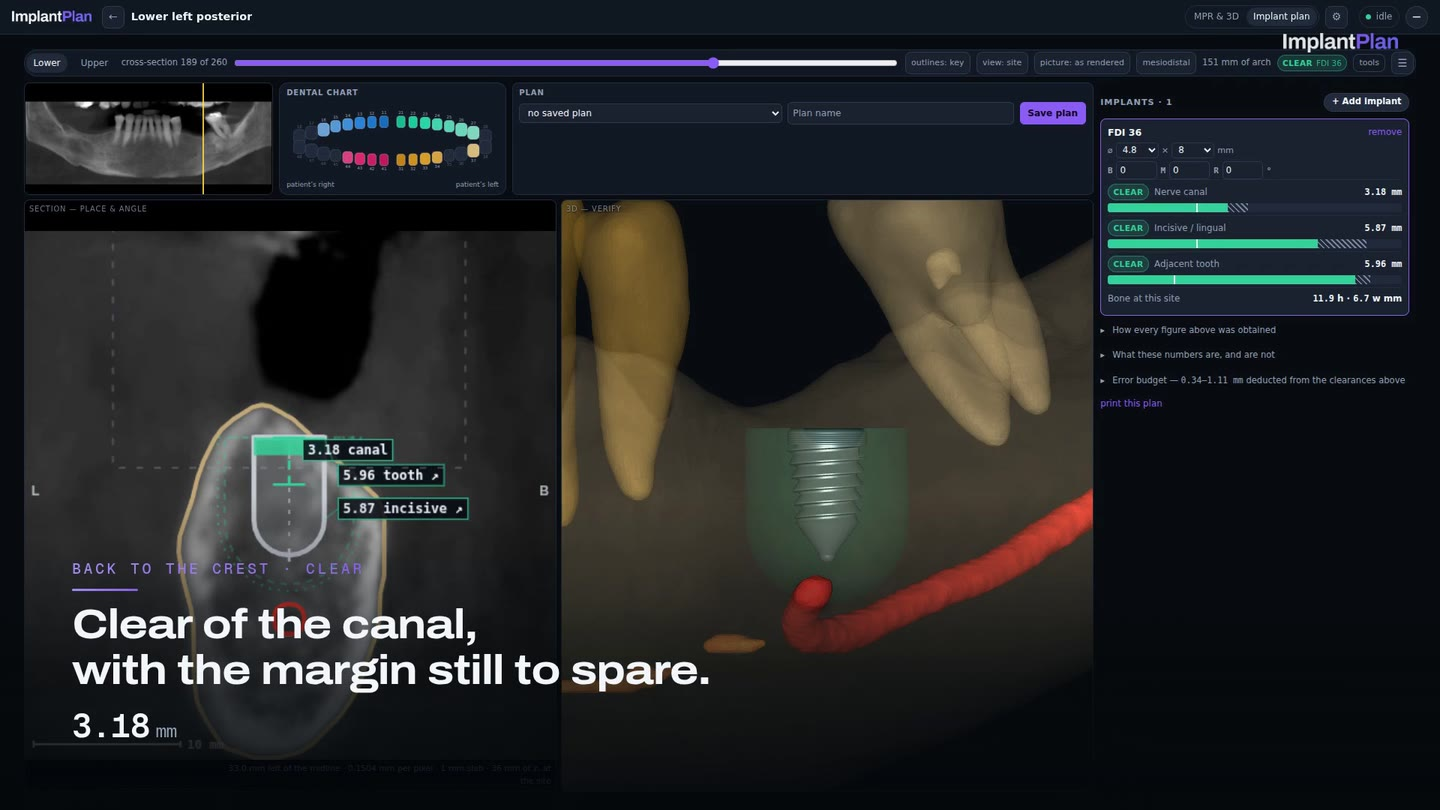
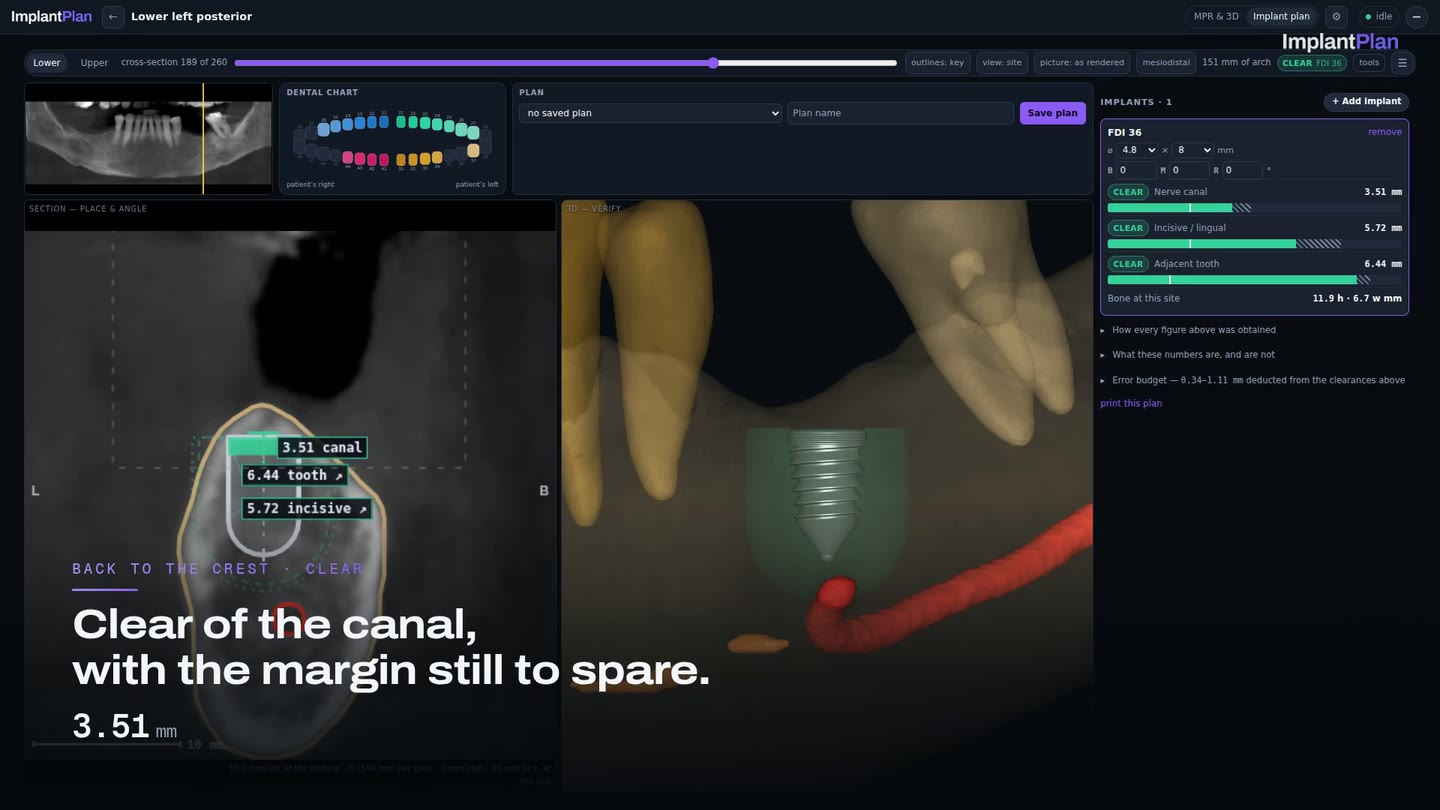
Seat the implant between the cortical plates, not on the arch curve
The reshot trailer put a fixture on the buccal flank of the ridge with its wall
against the outer cortex. That is not a filming mistake, it is what the app does:
`alignToSite` set `t_mm = 0` with the comment "the crest midline, which is where
ridge.py measures", and that was true of the measurement and false of the anatomy.
`_crest_z` sampled ONLY the `t = 0` column, so the arch curve was the midline by
assumption rather than by finding bone.

The curve is fitted to crowns and interpolated across gaps, which means it is least
trustworthy at exactly the sites an implant goes. Two failures followed from it, both
measured on real cases:

* `_canal_roof_z` right below it already sweeps `t`, with a comment recording that a
  single ray at `t = 0` once refused every molar on a case. The crest search never
  learned the same lesson, and on a case whose ridge sat 1.5-2.0 mm off the curve
  BOTH edentulous sites reported "no cortical crest was found" -- the only two sites
  a planner would have used were the only two that could not be measured.
* Where `t = 0` did hit, it hit whatever it was standing on, and the implant was
  seated there.

So: the crest search tries `t = 0` first and falls back to a +/-3 mm sweep, which
means no site that had a measurement changes and sites that had none get one. The
SEAT is a separate question with a separate answer -- the midpoint of the buccal and
lingual cortical plates, which the width measurement already located and threw away.
[…]

diff --git a/web/app.js b/web/app.js
@@ -5771,7 +5771,14 @@ function alignToSite(info, imp) {
   // No crest: fall back to the occlusal plane, and say so rather than pretending.
   imp.z_mm = crest != null ? crest + down * SUBCRESTAL_MM
     : info.occlusal_z_mm + down * 1.0;
-  imp.t_mm = 0;                 // the crest midline, which is where `ridge.py` measures
+  // ON THE RIDGE, not on the arch curve. This was `0` with the comment "the crest
+  // midline, which is where ridge.py measures" -- and that was true of the measurement
+  // and false of the anatomy: `_crest_z` sampled only the `t = 0` column, so the curve
+  // WAS the midline by assumption rather than by finding the bone. On a sloped or
+  // atrophic ridge the curve falls on the flank, and a fixture seated there has its
+  // buccal wall against the outer cortex. `ridge.py` now sweeps for the top of the
+  // ridge and publishes where it found it; seat on that.
+  imp.t_mm = site && site.crest_t_mm != null ? site.crest_t_mm : 0;
   imp.tilt_deg = 0;
   // ALL THREE angles, not just the one. `C` is "re-seat on the ridge", and a re-seat
   // that left a 20-degree mesiodistal angulation in place would put the platform on

diff --git a/dentistry/ridge.py b/dentistry/ridge.py
@@ -66,6 +66,29 @@ WIDTH_SEARCH_MM = 10.0
 CANAL_OFFSET_SEARCH_MM = 3.0
 CANAL_OFFSET_STEP_MM = 0.5
 
+# How far either side of the arch curve to look for the crest when the curve itself
+# misses the bone.
+#
+# The same lesson as the block above, learned twice. `_canal_roof_z` sweeps `t` because a
+# single ray at `t = 0` refused every molar on a real case; `_crest_z` did not, and took
+# the first cortical crossing on the `t = 0` column as "the crest" whatever it was
+# standing on. Where the arch curve is INTERPOLATED -- which is every edentulous site,
+# because there is no tooth to anchor the arc position -- that column can miss the ridge
+# altogether. Measured: on a real case both gap sites reported "no cortical crest was
+# found" while the ridge sat a couple of millimetres to one side, so the only two sites a
+# planner would actually have used were the only two that could not be measured.
+#
+# `t = 0` is still tried first and still wins when it finds bone, so no site that had a
+# measurement changes. The sweep only fills in sites that previously had none.
+#
+# WHERE TO SEAT is deliberately NOT this offset. Taking the most coronal crossing across
+# the sweep was tried and is worse: on a sloped ridge the highest point is the knife edge,
+# and it moved FDI 36 on a real case from 6.69 mm of crestal width to 2.5 mm, a crest no
+# fixture in the catalogue fits on. The seat is the midpoint between the two cortical
+# plates, computed with the width further down.
+CREST_OFFSET_SEARCH_MM = 3.0
+CREST_OFFSET_STEP_MM = 0.25
+
 
 def _ratio_profile(sampler, s_mm, t_mm, z_from, z_to, refs):
     """`(zs, ratios)` sampled vertically, or `(None, None)` with no usable reference."""
@@ -117,18 +140,39 @@ def _crest_z(sampler, s_mm, refs, jaw, z_top, z_bottom):
     up = jaw == "maxilla"
     z_from = z_bottom if up else z_top
     z_to = (z_bottom + CREST_SEARCH_MM) if up else (z_top - CREST_SEARCH_MM)
-    zs, ratios = _ratio_profile(sampler, s_mm, 0.0, z_from, z_to, refs)
-    if zs is None:
-        return None, "this scan has no usable cancellous reference population"
-    for i, r in enumerate(ratios):
-        if r >= CORTICAL_RATIO:
-            return zs[i], None
-    return None, (f"no cortical crest was found within {CREST_SEARCH_MM:.0f} mm of the "
-                  f"{'bottom' if up else 'top'} of the measured band, where a "
-                  f"{jaw} crest would be")
+
+    # `t = 0` FIRST, and if it finds a crest that is the answer -- every site that could
+    # be measured before is measured identically now. The sweep below only ever fills in
+    # a site that previously reported nothing at all.
+    #
+    # NOT the most coronal crossing across the sweep, which was tried and was worse: on a
+    # sloped ridge the highest point is the knife edge, and taking it moved FDI 36 on a
+    # real case from 6.69 mm of crestal width to 2.5 mm -- a crest no fixture in the
+    # catalogue fits on. The nearest column that finds bone keeps the reference where the
+    # arch put it; WHERE TO SEAT is a separate question, answered from the cortical plates
+    # in `measure_sites` rather than from the height of the crossing.
+    steps = int(round(CREST_OFFSET_SEARCH_MM / CREST_OFFSET_STEP_MM))
+    offsets = [0.0] + [sign * k * CREST_OFFSET_STEP_MM
+                       for k in range(1, steps + 1) for sign in (1.0, -1.0)]
+    no_refs = False
+    for t in offsets:
+        zs, ratios = _ratio_profile(sampler, s_mm, t, z_from, z_to, refs)
+        if zs is None:
+            no_refs = True
+            continue
+        for i, r in enumerate(ratios):
+            if r >= CORTICAL_RATIO:
+                return zs[i], t, None
+    if no_refs:
+        return None, None, "this scan has no usable cancellous reference population"
+    return None, None, (
+        f"no cortical crest was found within {CREST_SEARCH_MM:.0f} mm of the "
+        f"{'bottom' if up else 'top'} of the measured band, at the arch curve or "
+        f"anywhere within {CREST_OFFSET_SEARCH_MM:.0f} mm either side of it, where a "
+        f"{jaw} crest would be")
 
 
-def _canal_roof_z(sampler, s_mm, crest_z):
+def _canal_roof_z(sampler, s_mm, crest_z, seat_t=0.0):
     """`(z, t)` of the shallowest drawn canal below this site, or `(None, None)`.
 
     A distance field, sampled down a vertical column and asked where it reaches zero.
@@ -146,8 +190,13 @@ def _canal_roof_z(sampler, s_mm, crest_z):
     zs = [crest_z - i * (45.0 / (n - 1)) for i in range(n)]
     steps = int(round(CANAL_OFFSET_SEARCH_MM / CANAL_OFFSET_STEP_MM))
     # `t = 0` first, so a canal genuinely under the midline reports no offset at all.
-    offsets = [0.0] + [sign * k * CANAL_OFFSET_STEP_MM
-                       for k in range(1, steps + 1) for sign in (1.0, -1.0)]
+    # CENTRED ON THE SEAT. The window is the footprint of the implant, and the implant
+    # sits at `seat_t` -- the midpoint of the cortical plates -- not on the arch curve.
+    # Sweeping from the curve asks "is the canal under the curve", which is not a
+    # question anyone has: measured on a real case, both edentulous sites reported no
+    # canal beneath them while their ridges sat 1.5-2.0 mm to one side of the curve.
+    offsets = [seat_t] + [seat_t + sign * k * CANAL_OFFSET_STEP_MM
+                          for k in range(1, steps + 1) for sign in (1.0, -1.0)]
     best_z, best_t = None, None
     for t in offsets:
         ds = sampler.sample("canal", [(s_mm, t, z) for z in zs])
@@ -155,6 +204,30 @@ def _canal_roof_z(sampler, s_mm, crest_z):
         if hit is not None and (best_z is None or hit > best_z):
             best_z, best_t = hit, t
     return best_z, best_t
+
+
+def _plate_edges(sampler, s_mm, crest, jaw, refs):
+    """Distance from the arch curve out to each cortical plate, `{buccal, lingual}`.
+
+    Hoisted out of `measure_sites` so the SEAT it implies -- the midpoint of the two
+    plates -- exists before the height is measured, because the height's canal sweep is
+    centred on the seat rather than on the curve.
+    """
+    z_w = crest - WIDTH_BELOW_CREST_MM if jaw != "maxilla" \
+        else crest + WIDTH_BELOW_CREST_MM
+    edges = {}
+    for side, sign in (("buccal", 1.0), ("lingual", -1.0)):
+        n = max(2, int(round(WIDTH_SEARCH_MM / PROFILE_STEP_MM)) + 1)
+        ts = [sign * i * (WIDTH_SEARCH_MM / (n - 1)) for i in range(n)]
+        vals = sampler.sample("grey", [(s_mm, t, z_w) for t in ts])
+        air, ref = refs.get("air"), refs.get("cancellous")
+        if air is None or ref is None or abs(ref - air) < 1e-6:
+            break
+        ratios = [(v - air) / (ref - air) for v in vals]
+        peak = next((i for i, r in enumerate(ratios) if r >= CORTICAL_RATIO), None)
+        edges[side] = (None if peak is None
+                       else _falling_half_max([abs(t) for t in ts], ratios, peak))
+    return edges
 
 
 def measure_sites(sampler, fit_info: dict, jaw: str, refs: dict,
@@ -187,6 +260,7 @@ def measure_sites(sampler, fit_info: dict, jaw: str, refs: dict,
         # carries a height still displayed "no cortical crest was found", because the
         # earlier refusal's `reason` was never cleared. A complete record cannot do that.
         entry = {"height_mm": None, "width_mm": None, "crest_z_mm": None,
+                 "crest_t_mm": None,
                  "reason": None, "height_reason": None, "width_reason": None,
                  "basis_height": None, "basis_width": None,
                  "position_interpolated": bool(site.get("interpolated"))}
@@ -200,12 +274,21 @@ def measure_sites(sampler, fit_info: dict, jaw: str, refs: dict,
             out[str(fdi)] = entry
             continue
 
-        crest, why = _crest_z(sampler, s_mm, refs, jaw, z_top, z_bottom)
+        crest, crest_t, why = _crest_z(sampler, s_mm, refs, jaw, z_top, z_bottom)
         if crest is None:
             entry["reason"] = why
             out[str(fdi)] = entry
             continue
         entry["crest_z_mm"] = round(crest, 2)
+        # WHERE TO SEAT, decided before anything is measured under it. The cortical plates
+        # give the middle of the ridge; `crest_t` -- the column the crest was found on --
+        # is only the fallback for a curve that missed the bone entirely.
+        edges = _plate_edges(sampler, s_mm, crest, jaw, refs)
+        if edges.get("buccal") is not None and edges.get("lingual") is not None:
+            seat_t = (edges["buccal"] - edges["lingual"]) / 2.0
+        else:
+            seat_t = crest_t
+        entry["crest_t_mm"] = round(seat_t, 2)
 
         # ---- height ---------------------------------------------------------
         if jaw == "mandible":
@@ -225,7 +308,7 @@ def measure_sites(sampler, fit_info: dict, jaw: str, refs: dict,
                            f"{pres['nearest_present_mm']:.0f} mm away along the arch"
                            if pres.get("nearest_present_mm") is not None else ""))
                 else:
-                    roof, t_at = _canal_roof_z(sampler, s_mm, crest)
+                    roof, t_at = _canal_roof_z(sampler, s_mm, crest, seat_t)
                     if roof is None:
                         entry["height_reason"] = (
                             "no drawn canal within 45 mm below the crest at this site, "
@@ -264,20 +347,6 @@ def measure_sites(sampler, fit_info: dict, jaw: str, refs: dict,
                     "ratio units, never from the FOV-limited sinus label")
 
         # ---- width ----------------------------------------------------------
-        z_w = crest - WIDTH_BELOW_CREST_MM if jaw != "maxilla" \
-            else crest + WIDTH_BELOW_CREST_MM
-        edges = {}
-        for side, sign in (("buccal", 1.0), ("lingual", -1.0)):
-            n = max(2, int(round(WIDTH_SEARCH_MM / PROFILE_STEP_MM)) + 1)
-            ts = [sign * i * (WIDTH_SEARCH_MM / (n - 1)) for i in range(n)]
-            vals = sampler.sample("grey", [(s_mm, t, z_w) for t in ts])
-            air, ref = refs.get("air"), refs.get("cancellous")
-            if air is None or ref is None or abs(ref - air) < 1e-6:
-                break
-            ratios = [(v - air) / (ref - air) for v in vals]
-            peak = next((i for i, r in enumerate(ratios) if r >= CORTICAL_RATIO), None)
-            edges[side] = (None if peak is None
-                           else _falling_half_max([abs(t) for t in ts], ratios, peak))
         if edges.get("buccal") is not None and edges.get("lingual") is not None:
             entry["width_mm"] = round(edges["buccal"] + edges["lingual"], 2)
             entry["basis_width"] = (

diff --git a/README.md b/README.md
@@ -6,16 +6,16 @@
 
 [**dentistry.dicomsegvr.com**](https://dentistry.dicomsegvr.com) · research preview · **not a medical device, and not for diagnostic use**
 
-<img src="marketing/preview/verdict-sequence.gif" alt="One implant site at three seating depths: TIGHT at 2.71 mm, BREACH at 2.23 mm, CLEAR at 3.18 mm" width="880">
+<img src="marketing/preview/verdict-sequence.gif" alt="One implant site at three seating depths: TIGHT at 2.55 mm, BREACH at 2.07 mm, CLEAR at 3.51 mm" width="880">
 
 </div>
 
-**One site, three depths.** The site is a real gap — a missing lower-left first molar, with
-11.9 mm of bone measured above the canal. An 8 mm fixture seated on the crest sits
-3.18 mm off the inferior alveolar canal: `CLEAR`. Half a millimetre deeper it is `TIGHT`
-at 2.71. A millimetre deeper it `BREACH`es at 2.23. Back to the crest and it is clear
-again. Every one of those millimetres has the canal's own boundary error taken out of it
-first.
+**One site, three depths.** The site is a real gap — a missing lower-left first molar,
+with 11.9 mm of bone measured above the canal and 6.7 mm of crestal width. An 8 mm fixture
+seated on the crest sits 3.51 mm off the inferior alveolar canal: `CLEAR`. A millimetre
+deeper it is `TIGHT` at 2.55. Half a millimetre deeper again it `BREACH`es at 2.07. Back
+to the crest and it is clear. Every one of those millimetres has the canal's own boundary
+error taken out of it first.
 
 That is the whole product. Every planner draws the nerve. None of them tells you how
 wrong the nerve is.
@@ -106,9 +106,14 @@ buccolingual angle at true angle and the mesiodistal one foreshortened by exactl
 capsule is a capsule. The panoramic is the other way round. Clocking is carried, drawn,
 and stated to change no measurement, because the measured solid is a body of revolution.
 
-**Seed as a restoration, then fit to the measurement.** The diameter comes from the tooth
-the site replaces — 3.3 mm at a lateral incisor, 4.8 mm at a first molar — narrowed if the
-measured ridge cannot take it. The length starts at the 10 mm a planner reaches for and
+**Seed as a restoration, then fit to the measurement.** It is seated **between the
+cortical plates**, not on the arch curve. The curve is fitted to crowns and interpolated
+across gaps, so at exactly the edentulous sites an implant goes it can sit to one side of
+the ridge underneath — and seating on it put a fixture's buccal wall against the outer
+cortex. `ridge.py` reports where the plates are and the platform is centred between them.
+
+The diameter comes from the tooth the site replaces — 3.3 mm at a lateral incisor, 4.8 mm
+at a first molar — narrowed if the measured ridge cannot take it. The length starts at the 10 mm a planner reaches for and
 caps at 13 mm however much bone there is. Deliberately not "the largest fixture that
 fits", which is what the seeding used to compute and no clinician would plan.
 
